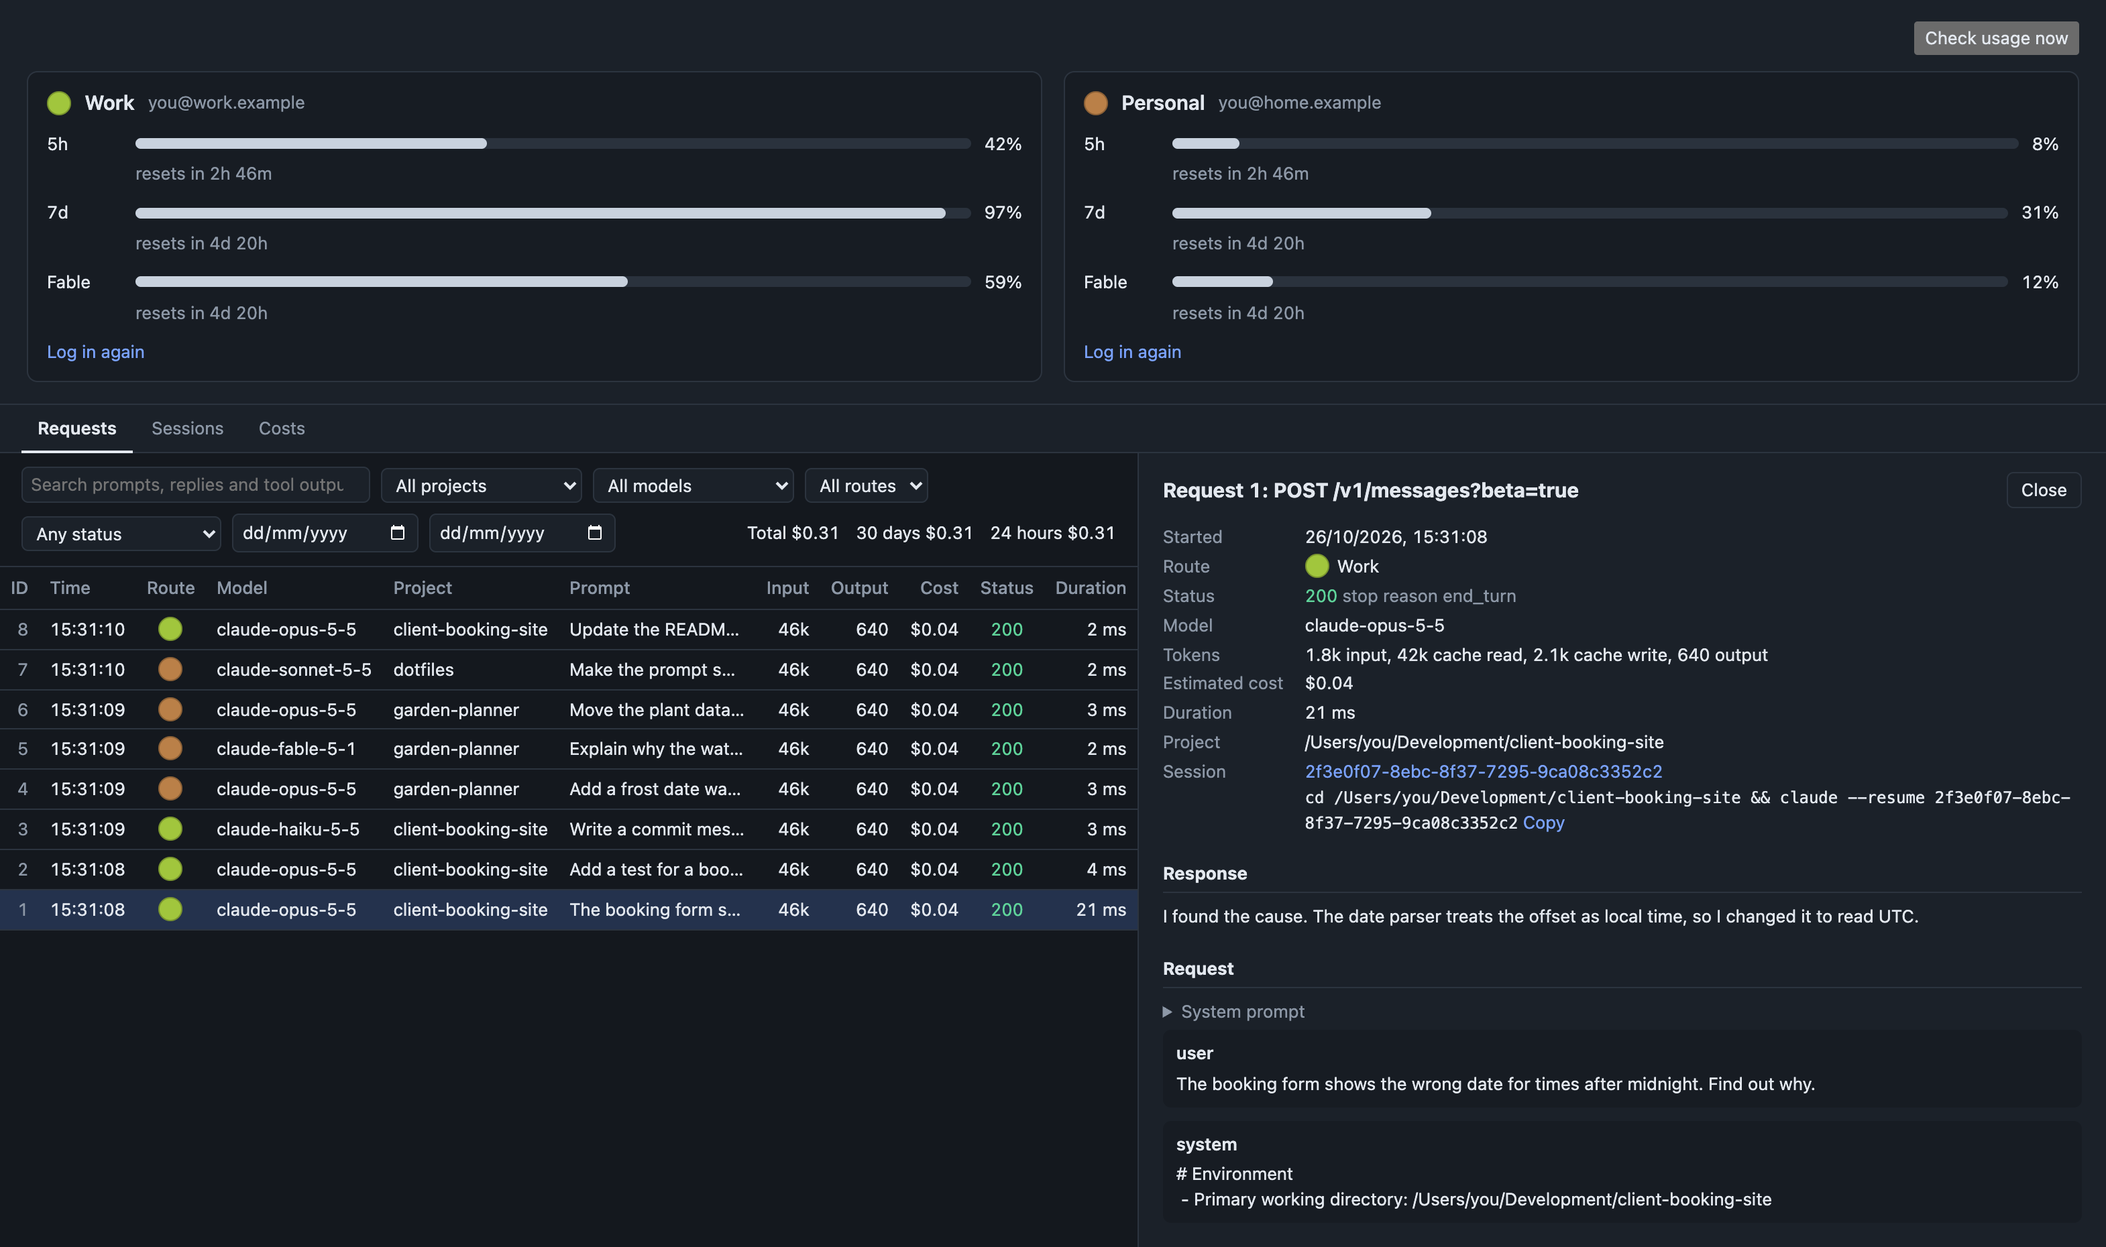
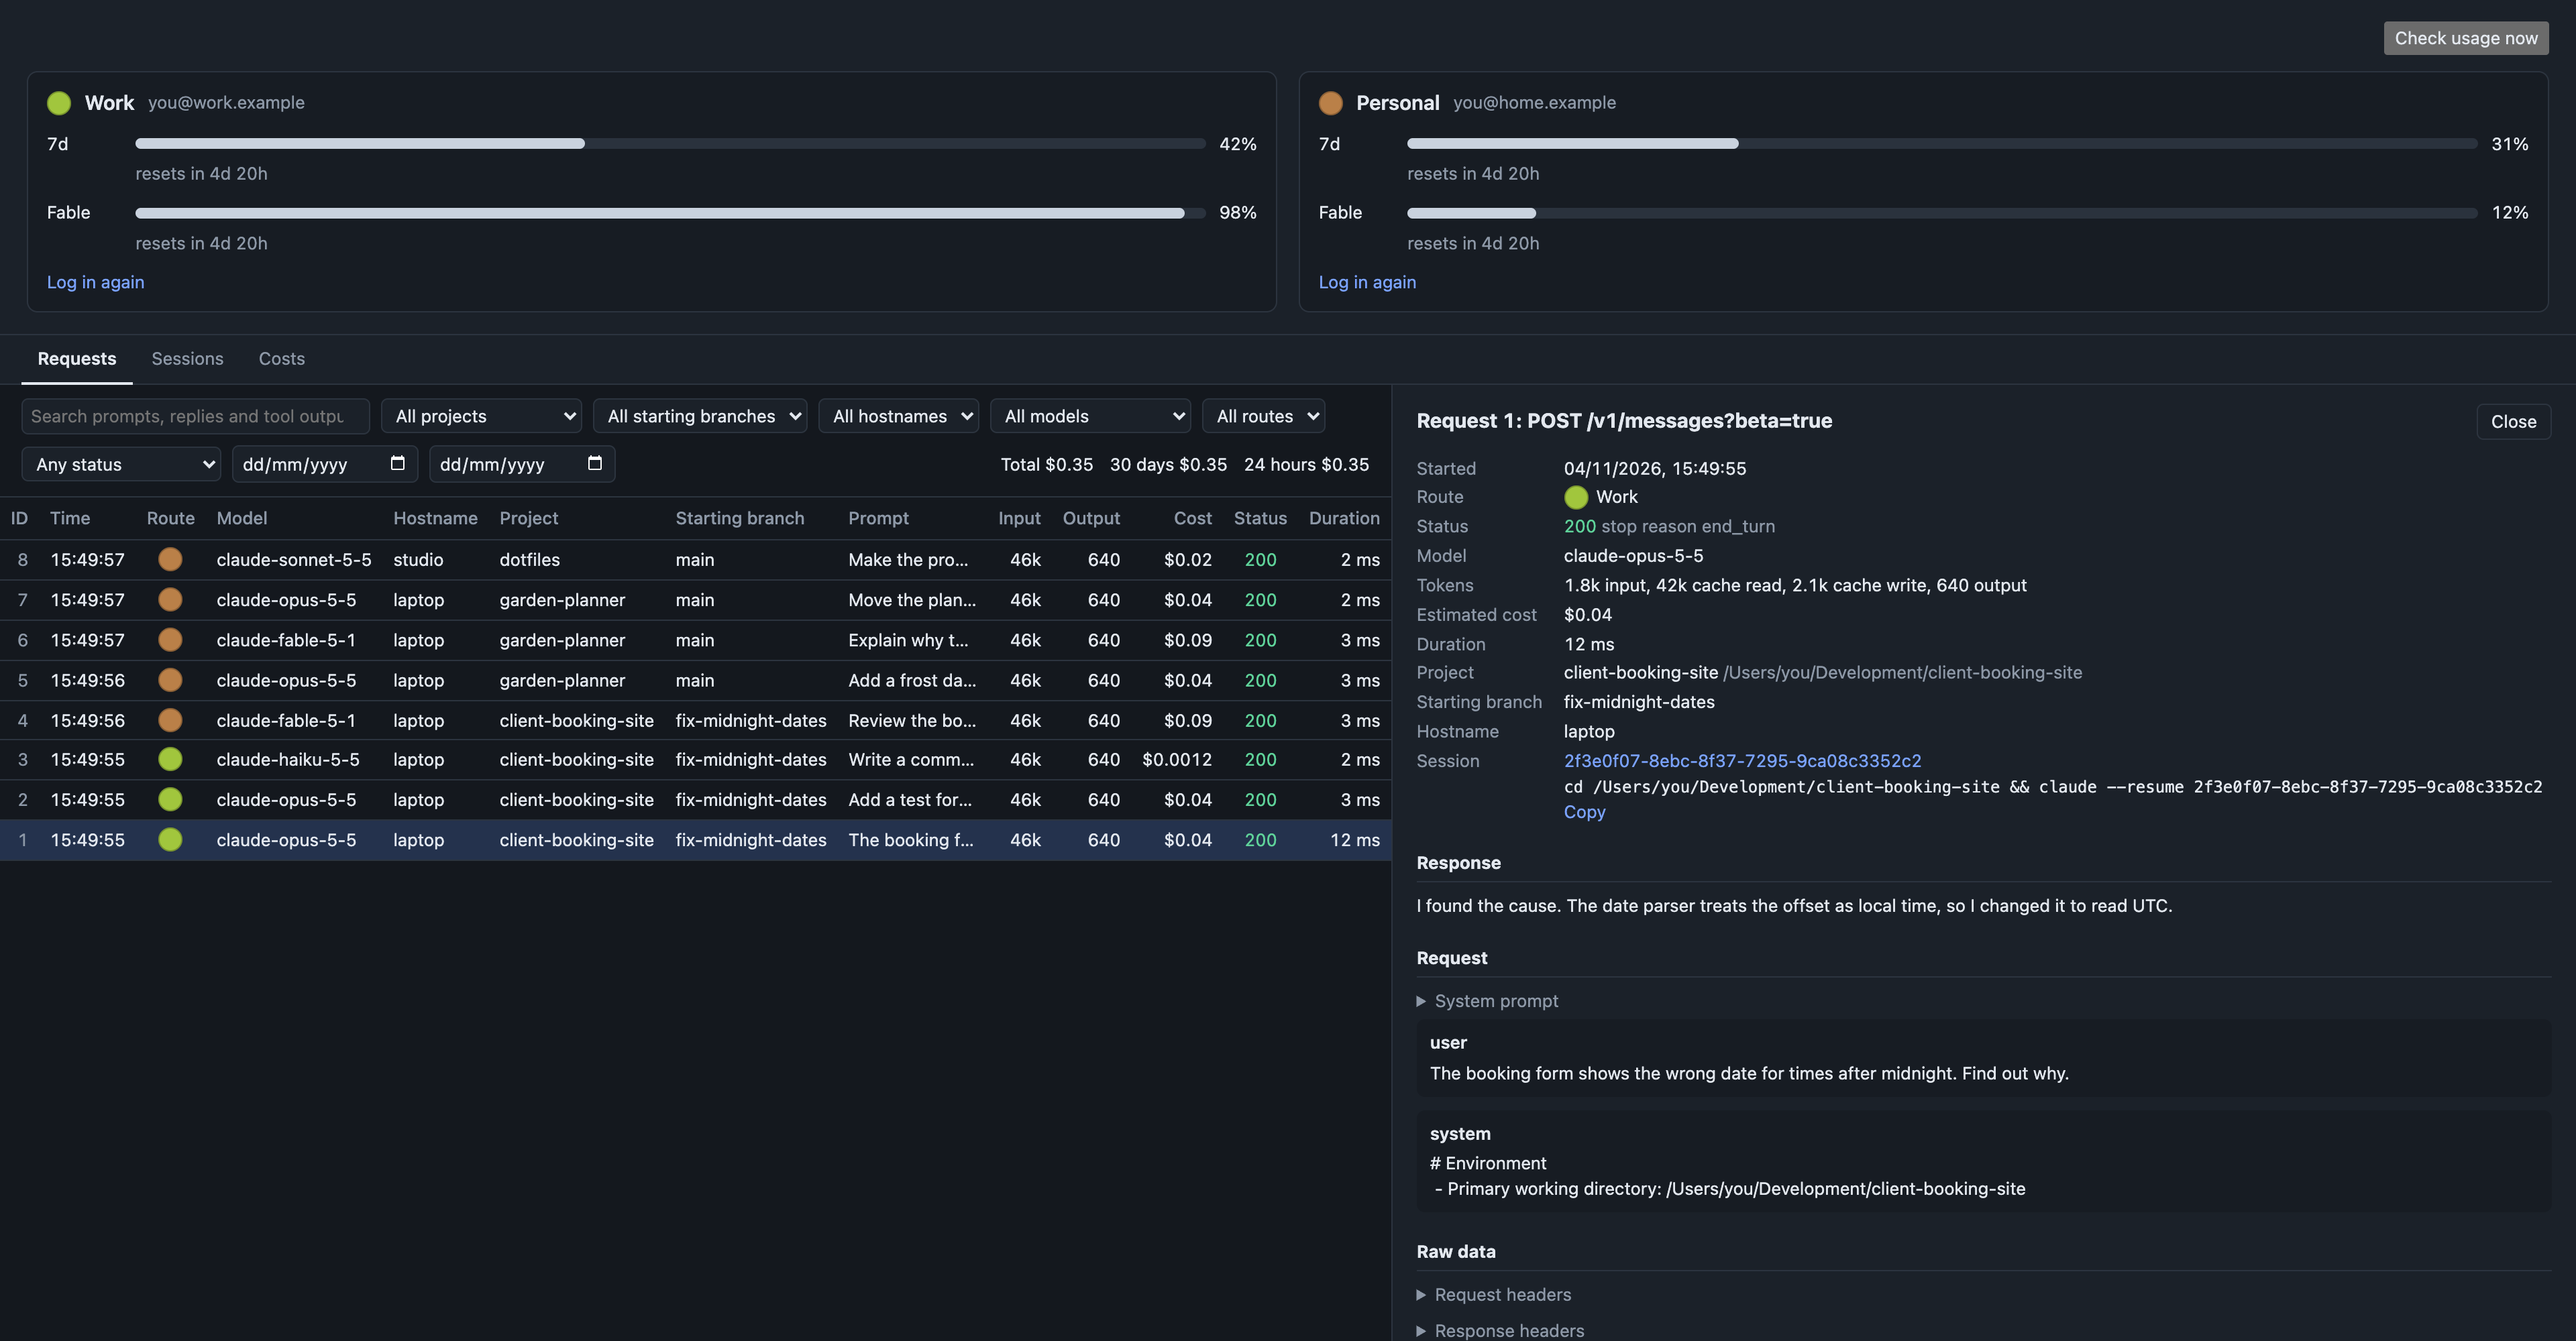
Take the web UI screenshot again with made-up data, and add a screenshot of the menu bar panel

diff --git a/README.md b/README.md
@@ -274,6 +274,8 @@ Open `https://<public hostname>/_proxy/` on a central service, or `http://127.0.
 
 ## Menu bar
 
+![The menu bar pies and the panel: weekly and Fable usage of each account, with the Work account avoided for Fable requests](docs/menu_bar_panel.png)
+
 The menu bar shows one pie per subscription account, in file order. Each pie has the colour of its account. The outer ring shows the usage of its weekly window, and the inner disc shows the usage of its model window, such as Fable. An account without a model window has a plain weekly pie. The inner disc turns red and full on its own when the proxy avoids the account for that model, after a rejection or at the `failover_utilization` of the model window. The ring turns red when the proxy tries the account last after a rejection for its 5-hour or weekly window, or avoids it at its `failover_utilization` of either window. The ring is full and red when a weekly window blocks the account. When every pie is red, every account has rejected requests or is at its threshold. A grey `!` means the proxy does not answer. A click on the pies opens a panel with one section per account: its colour, name and email address, and a bar per usage window with the percentage and the time to reset. A bar is red when the proxy avoids the account, or, for a model window, avoids the account for that model. A red line under the bars gives the reason. The panel has the **Open web UI**, **Refresh** and **Quit** buttons. The app reads the status once a minute. When `~/.claude-proxy-relay/proxy_credential` exists, the app sends that credential to the relay at each read.
 
 ## Run as a central service
